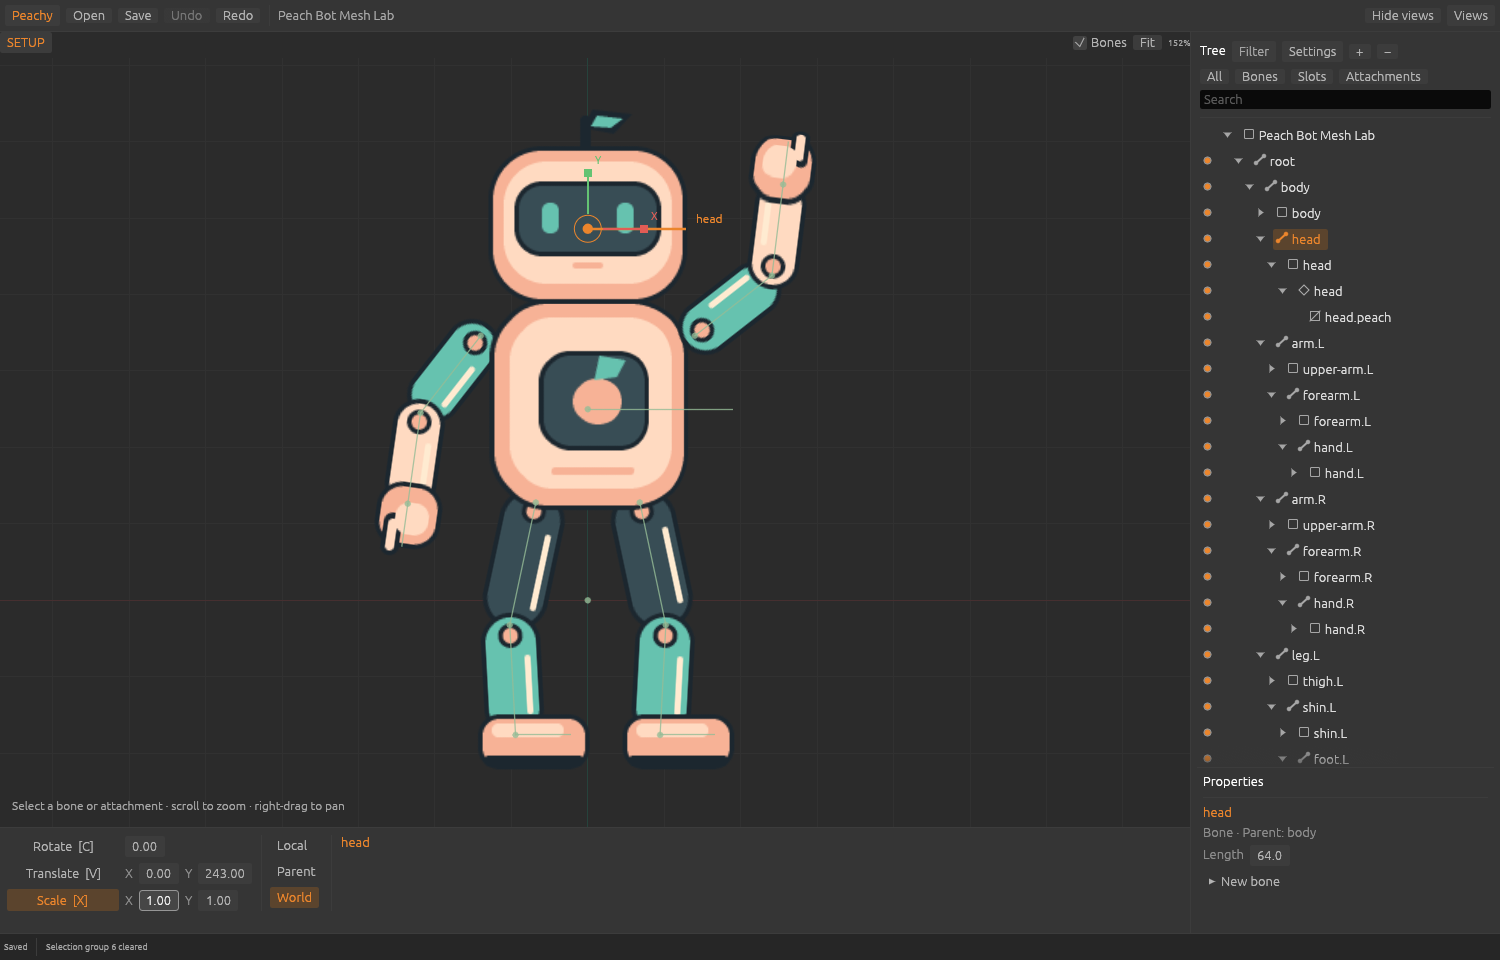
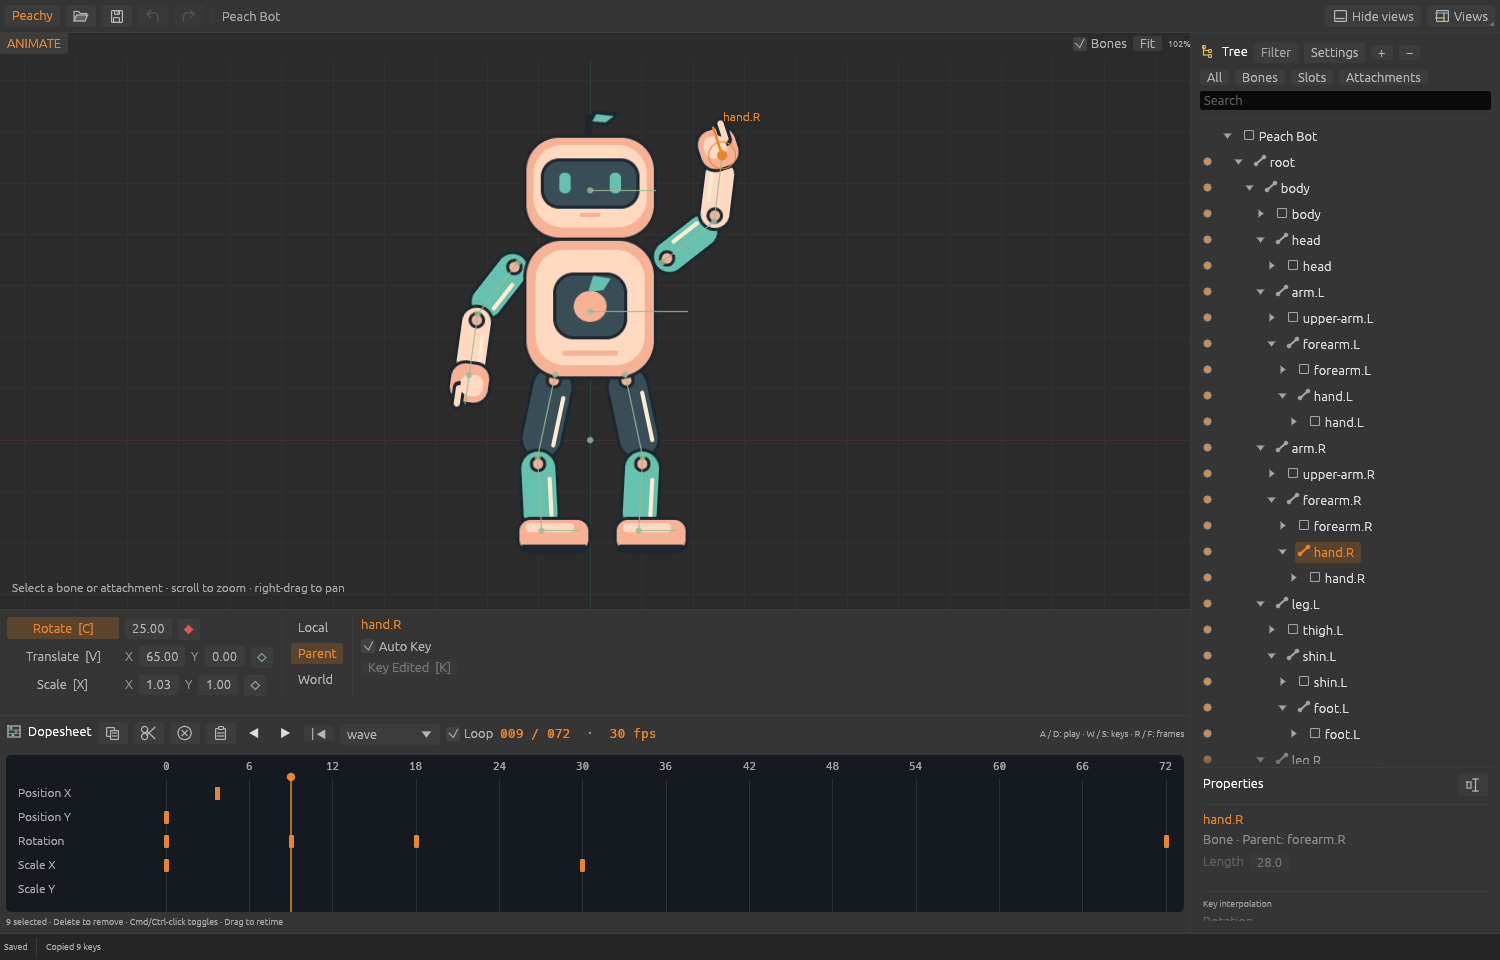
feat: verify Spine-style timeline selection and row controls

diff --git a/docs/slices/key-derived-duration.md b/docs/slices/key-derived-duration.md
@@ -1,0 +1,61 @@
+# Key-derived animation duration — planned slice
+
+Status: specification for the next data-model slice; native format remains v2.
+
+Spine defines animation duration by the highest key. Empty animations and clips with
+only frame-zero keys therefore have duration zero. Public references:
+[Keys/Timeline](https://esotericsoftware.com/spine-keys#Timeline),
+[Animation.duration](https://en.esotericsoftware.com/spine-api-reference#Animation-duration).
+No proprietary implementation is an implementation reference.
+
+Our v2 model instead stores a positive duration. Import floors it at 1/30 second;
+export adds implicit last-value holds or a neutral root rotation key. Moving a last
+key earlier does not shorten the clip. Fix these together, with an explicit native
+migration, rather than introducing another cached duration or hidden reserve.
+
+## Contract
+
+- Native v3 removes `Animation.duration`; `duration()` derives the maximum last key
+  over validated ordered tracks, or zero. Reject a v3 `duration` field as unknown.
+- Preserve actual keys on Spine import, including empty, frame-zero-only and tiny
+  positive clips. Export actual keys without synthetic padding or root injection.
+- Keep `AddAnimation { name, duration }` as a compatible command: zero creates an
+  empty clip; a finite positive value creates a visible neutral root hold at that
+  time. New animation UI should default to an empty clip.
+- Separate a positive chart display extent from animation end. Finite nonnegative
+  authoring time may exceed the last key; inserting a key naturally extends the end.
+  Seeking and unkeyed posing must not change animation duration.
+- Specify zero-duration looping and nonlooping transport separately. Never divide
+  or take a remainder by zero. Exact empty-editor playback requires observation;
+  do not infer its UI behavior solely from a runtime API.
+
+## Lossless v2 migration
+
+Materialize the keys that the old exporter already emitted as visible editable
+keys. Pad every nonempty track to its old duration when needed. For an all-empty
+clip, reuse/create the root rotation track with the old neutral hold. Empty tracks
+otherwise remain empty. This preserves exported property coverage and mixing
+semantics as closely as the v2 exporter did.
+
+Before appending a hold, normalize a formerly final unused Bezier hint to Linear,
+because the old exporter omitted that unused curve. Preserve Stepped. Validate the
+legacy duration, all key bounds/order, curves and the entire strict schema before
+normalizing anything. Preserve names and animation/track order. Do not implement
+migration through the Spine adapter, which has separate target restrictions.
+Chain v1 → v2 → v3 explicitly. Loading migrates in memory; only explicit Save writes
+the new version, after retaining a verified backup of the old file.
+
+## Acceptance
+
+Compare old v2 exports with migrated v3 exports, including reserved-duration tracks,
+all-empty clips, empty root tracks, Stepped and unused Bezier metadata. Reject
+malformed legacy durations, out-of-range keys and unknown fields. Cover empty,
+frame-zero-only and tiny positive import/export round trips. A migrated 4-second
+hold extended to 6 then shortened must return to 4 after save/reopen. Ordinary v3
+last-key moves/deletes must shrink the clip; Undo/cancelled previews restore it.
+Verify beyond-end keying, zero-duration chart/transport safety and external runtime
+geometry using original fixtures. Keep production artist inputs untouched.
+
+Suggested lanes: document/engine API; I/O migration and Spine adapter; desktop chart,
+authoring cursor and transport. Coordinate fixtures and version changes before
+editing; root owns integrated checks and native/runtime acceptance.

diff --git a/docs/UI_PARITY.md b/docs/UI_PARITY.md
@@ -211,7 +211,7 @@ Cmd/Ctrl-click toggles keys; Delete/Backspace requires focus in the visible canv
 Double-click deletes the clicked key. The toolbar offers the same deletion command
 with an independent icon. Rotation/translation/scale keys use narrow green/blue/red
 bars, following the public row images. Only the selected bone's supported scalar
-tracks are covered; multi-bone rows, overview rows, box selection, select-all
+tracks are covered; multi-bone rows, overview rows, box selection
 and Graph synchronization remain pending. Jump-to-key is on;
 configurable selection/scrubbing preferences remain pending.
 
@@ -251,3 +251,34 @@ Spine clipboard format interoperability remain pending. Text fields, modal dialo
 hidden views and Setup retain their own shortcut behavior. Interpolation controls
 resolve the exact playhead key before considering a unique near match, and refuse
 ambiguous near matches.
+
+
+## Selection expansion and row controls
+
+With Dopesheet focus, Cmd/Ctrl+A expands an existing selection to all keys in its
+selected property rows, then to every shown key. With no keys selected it selects
+all shown keys immediately. Further presses keep that selection. A held chord does
+not advance phases. Manual selection, replacement, context changes and stale-key
+pruning reset progression; ordinary frame reconciliation does not. Singleton rows
+still consume the first phase even when their selected-key count stays unchanged.
+Keys remain scoped to the current bone/animation; no hidden bone keys are included.
+
+This follows the public [selection guide](https://esotericsoftware.com/spine-dopesheet#Selection)
+and [official clarification](https://esotericsoftware.com/forum/d/17539-select-bones-keyframes-in-timeline-hotkey).
+The selected-row union for a multi-row selection is a conservative implementation
+choice pending installed-editor comparison. Overview/all-bone rows remain pending.
+
+Selection and Copy/Cut/Paste/Delete share an ordered focused input stream. Delete
+before Select All removes only the earlier selection; the reverse deletes expanded
+keys. Text fields, modal dialogs and hidden/Setup views retain their inputs. Plain A
+retains backward playback. Releases outside the Dopesheet still reset the held-key
+latch. Active previews cancel to their prepress selection before expansion, retaining
+the document, unkeyed pose and redo branch. Global history shortcuts remain outside
+this stream: same-frame Undo followed by Select All currently leaves selection
+empty, a known selection-order gap for a future unified shortcut dispatcher.
+
+Clicking Rotation chooses Rotate, X/Y choose Translate and Scale X/Y choose Scale.
+Row labels expose named button roles, shortcut hints and a hover cue. The label
+column owns its input separately from the key grid, so label clicks cannot start
+scrubbing or retiming. Right-click behavior is unchanged. A permanent single-line
+footer keeps row geometry stable when selection changes.

diff --git a/docs/VALIDATION.md b/docs/VALIDATION.md
@@ -443,3 +443,37 @@ gesture tests and source review are not presented as native interaction evidence
 All nine task-owned review processes have exited. Nine cleanup records confirm no
 temporary authorization, private-key file or temporary command directory remains.
 No new interactive handoff is retained; existing user windows were preserved.
+
+
+## Selection expansion and row controls — November 5, 2026
+
+The integrated selection slice passes **93 Rust tests** (desktop 33, CLI 4, engine
+44, I/O 4, adapter 8), formatting, warnings-denied Clippy, workspace build and the
+six-crate architecture guard. New checks cover explicit expansion phases, singleton
+and multi-row selections, exact close fractional keys, context/stale pruning,
+Delete/Undo scope, repeat/release handling, action order, text/modal priority,
+window focus loss and cancellation of a live preview to its original selection,
+document, pending pose and redo branch.
+
+Review caught a destructive event-order issue before integration: Delete followed
+by Select All in one input batch used to expand first. Deletion now belongs to the
+ordered timeline stream, with tests for both event orders. Global history shortcuts
+remain outside it; mixed same-frame Undo/Select All ordering is a known selection
+result gap, documented in UI_PARITY.md.
+
+A complete native run on an original-only disposable nine-key fixture passes:
+1 → 4 → 9 → 9 selection counts; matching Copy counts; all three row tool mappings;
+unchanged document, selected bone/keys and playhead; stable row geometry from empty
+through expanded selection; expanded deletion/one-step Undo; empty-selection Select
+All without consuming redo; and Cmd+A in a text field without timeline expansion or
+backward playback. The working document and complete original system clipboard are
+restored. Clipboard preservation keeps all item flavors in memory and only restores
+from a complete flavor snapshot verified as this run's explicit copy; a newer
+external copy is preserved.
+
+See [native acceptance](evidence/selection-native.json) and
+[expanded selection](selection-editor.png). The task-owned review process and
+fresh-login authorization were cleaned up; no interactive handoff remains.
+The engine and adapters are unchanged, so the preceding timeline runtime/round-trip
+evidence remains applicable. This slice does not claim all-bone timelines, marquee,
+Graph, pixel parity, other platforms or hosted CI.

diff --git a/docs/WORKFLOWS.md b/docs/WORKFLOWS.md
@@ -8,9 +8,9 @@ Do not count a rejected import or a synthetic success as a migrated game charact
 | Hurdle | Current evidence | Remaining acceptance gate |
 | --- | --- | --- |
 | Import our Spine characters | Supported 4.3 JSON opens; strict inspection explains refusals | November 5 re-audit: 0/11 sampled artist exports fully supported. Implement their needed weights, linked meshes, constraints and timelines; import packed art; verify an unchanged full production rig |
-| Modify a character | Bone transforms/length, region transforms, slot setup attachments, unweighted setup vertices and subdivision | Rig/image creation, pivots, rename/delete/reparent with stable IDs; broader mesh/UV and weight authoring |
+| Modify a character | Bone transforms/length, region transforms, slot setup attachments, unweighted setup vertices and subdivision | Rig/image creation, pivots, remaining entity naming, delete/reparent with stable IDs; broader mesh/UV and weight authoring |
 | Work on poses | Setup pose and transient Animate poses; numeric/canvas controls, Auto Key, K and undo | Scale/Shear/Pose tools, axes, multi-selection, constraints and weighted geometry |
-| Work on animations | Supported bone transforms, curves, frame scrub/play, explicit/automatic keying, per-bone/global edited keying | Dopesheet key selection/clipboard/retiming, Graph, clip management, mixing and remaining timeline types |
+| Work on animations | Supported bone transforms/curves, pose keying, exact key selection/deletion, group retiming/duplication, Copy/Cut/Paste, animation rename/duplicate and transport | Broader timeline selection, key-derived duration, Graph, clip creation/deletion, mixing and remaining timeline types |
 | Work on slots/features | Typed slots/placeholders/attachments/skins, setup attachment edits, temporary editor visibility | Attachment/color/draw-order animation, slot creation/order/blending, sequences, events, clipping and constraints |
 | Export for the game | Fresh 4.3 JSON/atlas/PNG bundles; separately supplied Spine runtime checks; installed editor import/re-export | Representative production-character round trip and actual game-engine load/render/playback, including the features that rig uses |
 | Save editable work | Strict `.peachy` v2 saves, reopen, verified backups, atomic replacement and image copying | Broad real-rig round trip as coverage expands; crash recovery/packaging. Unkeyed poses must be keyed first |

diff --git a/docs/ROADMAP.md b/docs/ROADMAP.md
@@ -9,8 +9,9 @@ Spine runtime. Subsequent work should grow that working loop.
    selection, filters, activation dots, viewport picking and unkeyed/Auto Key posing.
    Rotate/Translate/Scale and axis controls now follow the public reference.
    Selection history, single-item groups, reverse playback and key navigation are also available.
-   Next complete Graph/view tabs and multi-selection in
-   [UI parity](UI_PARITY.md) before expanding the authoring UI.
+   Key retiming/duplication and focused clipboard actions are available. Next extend
+   selection controls and correct duration behavior, then Graph/view tabs and
+   multi-selection in [UI parity](UI_PARITY.md).
 
 2. **Weights and broader mesh editing.** Unweighted mesh import/export, rendering,
    region conversion, fixed-UV setup vertex transforms and triangle subdivision now
@@ -26,8 +27,10 @@ Spine runtime. Subsequent work should grow that working loop.
 4. **Constraint parity.** Begin with one- and two-bone IK, then transform/path
    constraints and physics. Specify each through controlled fixtures and compare
    observed outputs at boundaries as well as ordinary poses.
-5. **Animation editing.** Key selection, copy/paste, retiming, editable clip lengths,
-   animation creation UI, ghosting, and timeline/curve editor refinement. Group
+5. **Animation editing.** Exact selection, copy/paste and group retiming now work.
+   Next add broader selection, [Spine's last-key duration](slices/key-derived-duration.md)
+   (including empty clips),
+   animation creation UI, ghosting and timeline/curve editor refinement. Group
    inspector keyboard edits into one undo transaction. Pointer drags in the inspector
    and canvas already group their updates.
 6. **Agent interfaces.** Publish a discoverable command registry and schemas, then

diff --git a/docs/PARITY.md b/docs/PARITY.md
@@ -21,7 +21,7 @@ comparison. The native `.peachy` format is our own editable model.
 | Bone animation and curves | Scalar transform keys, linear/stepped/Bezier, playback and scrubbing | External runtime boundaries, backwards scrubbing, full-turn rotation, native key/history checks |
 | Unkeyed poses and Auto Key | Transient multi-bone poses, K/Tree/transform keying, colored state, paired XY defaults and unified undo | Bone-transform subset; slot/deform/constraint keying remains pending |
 | Animation transport | A/D reverse/forward play, bidirectional loops, W/S key navigation and Q/E start/last key | Native/engine boundary checks; nonlooping playback stays within native duration; extended playback/view preferences pending |
-| Timeline authoring | Key insertion, exact selection/removal, retiming/copy gestures, Copy/Cut/Paste and curve controls; animation rename/duplicate | Still needs broader selection, advanced curve editing, animation management and mixing |
+| Timeline authoring | Key insertion, exact/row/all-shown selection, removal, retiming/copy gestures, Copy/Cut/Paste and curve controls; animation rename/duplicate | Still needs marquee/all-bone selection, key-derived duration, advanced curve editing, animation management and mixing |
 | Rig/artwork authoring | Add child bones, rename bones/slots; work with existing loose PNGs | Still needs image import, attachment creation, pivots, stable IDs before delete/reparent |
 | IK/transform/path/physics constraints | Pending | Each needs controlled inputs, public behavior specification and runtime boundary checks |
 | Slot animation, draw order, events, clipping, sequences | Pending | Unsupported imports are refused; no silent approximation |

diff --git a/README.md b/README.md
@@ -5,7 +5,7 @@ core and Spine-compatible exports. The current slices add Spine-style naming dia
 animation duplication, Dopesheet key selection, retiming and clipboard actions.
 This is still a bounded subset of Spine.
 
-![Peach Bot in the editor](docs/authoring-editor.png)
+![Peach Bot in the editor](docs/selection-editor.png)
 
 ## Try it
 
@@ -40,7 +40,10 @@ a key to delete it. Drag selected keys to retime them together; **Shift** disabl
 frame snapping and **Cmd/Ctrl+Shift-drag** duplicates them. **Cmd/Ctrl+C/X/V**
 copies/cuts/pastes focused Dopesheet keys. Paste targets the selected bone at the
 playhead, retaining relative timing and curves. The matching toolbar icons share
-these actions. Escape cancels a live drag; each committed edit is one undo step.
+these actions. **Cmd/Ctrl+A** expands selection to its rows, then all shown keys;
+with no selection it selects all shown keys immediately. Click a property row label
+to select its Rotate/Translate/Scale tool. Escape cancels a live drag; each
+committed edit is one undo step.
 
 The workspace follows Spine’s default arrangement: viewport left, Tree and item
 properties right, transform controls below the viewport, and Dopesheet below those

diff --git a/docs/ARCHITECTURE.md b/docs/ARCHITECTURE.md
@@ -212,3 +212,12 @@ versioned JSON envelope through egui's native clipboard output. Dedicated clipbo
 input events take precedence over raw-key fallbacks and only run for chart focus.
 Keyboard Paste requires the current envelope; text fields keep their input. The
 system clipboard is not an engine dependency or native-project field.
+
+
+The pure `KeySelection` model keeps an explicit Rows/Shown expansion phase separate
+from key count. It reconciles exact identities before expanding and excludes keys
+outside the shown rows/current bone/clip. The desktop's ordered action stream
+combines Select All, clipboard and deletion. A release-aware input latch suppresses
+held repeats; passive observation after shortcut routing handles releases while a
+text field/modal owns input without consuming that control's events. Selection
+expansion never dispatches a document command or moves the playhead.

diff --git a/docs/PROVENANCE.md b/docs/PROVENANCE.md
@@ -176,3 +176,11 @@ informed bounded overwrite/snapping behavior. Exact advanced handle reshaping,
 group corner cases and cross-project clipboard preferences remain comparison gates.
 No proprietary implementation was read or copied. The clipboard and gesture code
 are independently implemented on the existing pure commands and egui shell.
+
+
+Selection expansion and row tool controls use the public
+[Dopesheet guide](https://esotericsoftware.com/spine-dopesheet#Selection) and
+[official empty-selection clarification](https://esotericsoftware.com/forum/d/17539-select-bones-keyframes-in-timeline-hotkey).
+Selected-row union across several rows remains an explicitly recorded inference.
+The footer stability change fixes movement observed in our own native captures;
+no proprietary UI image or implementation was copied.
